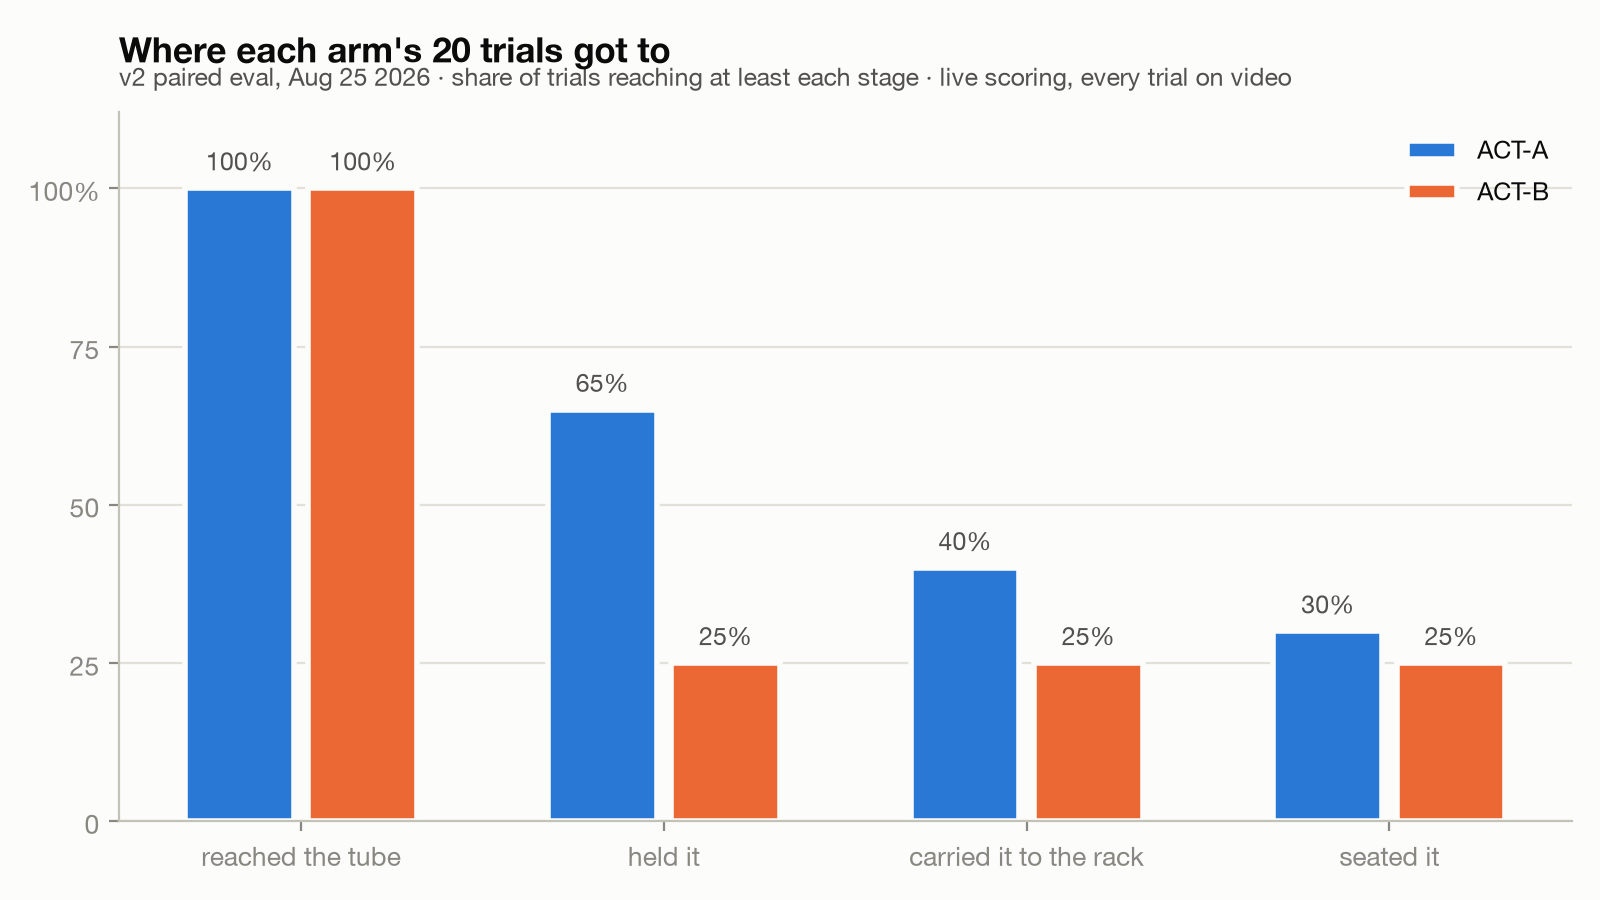
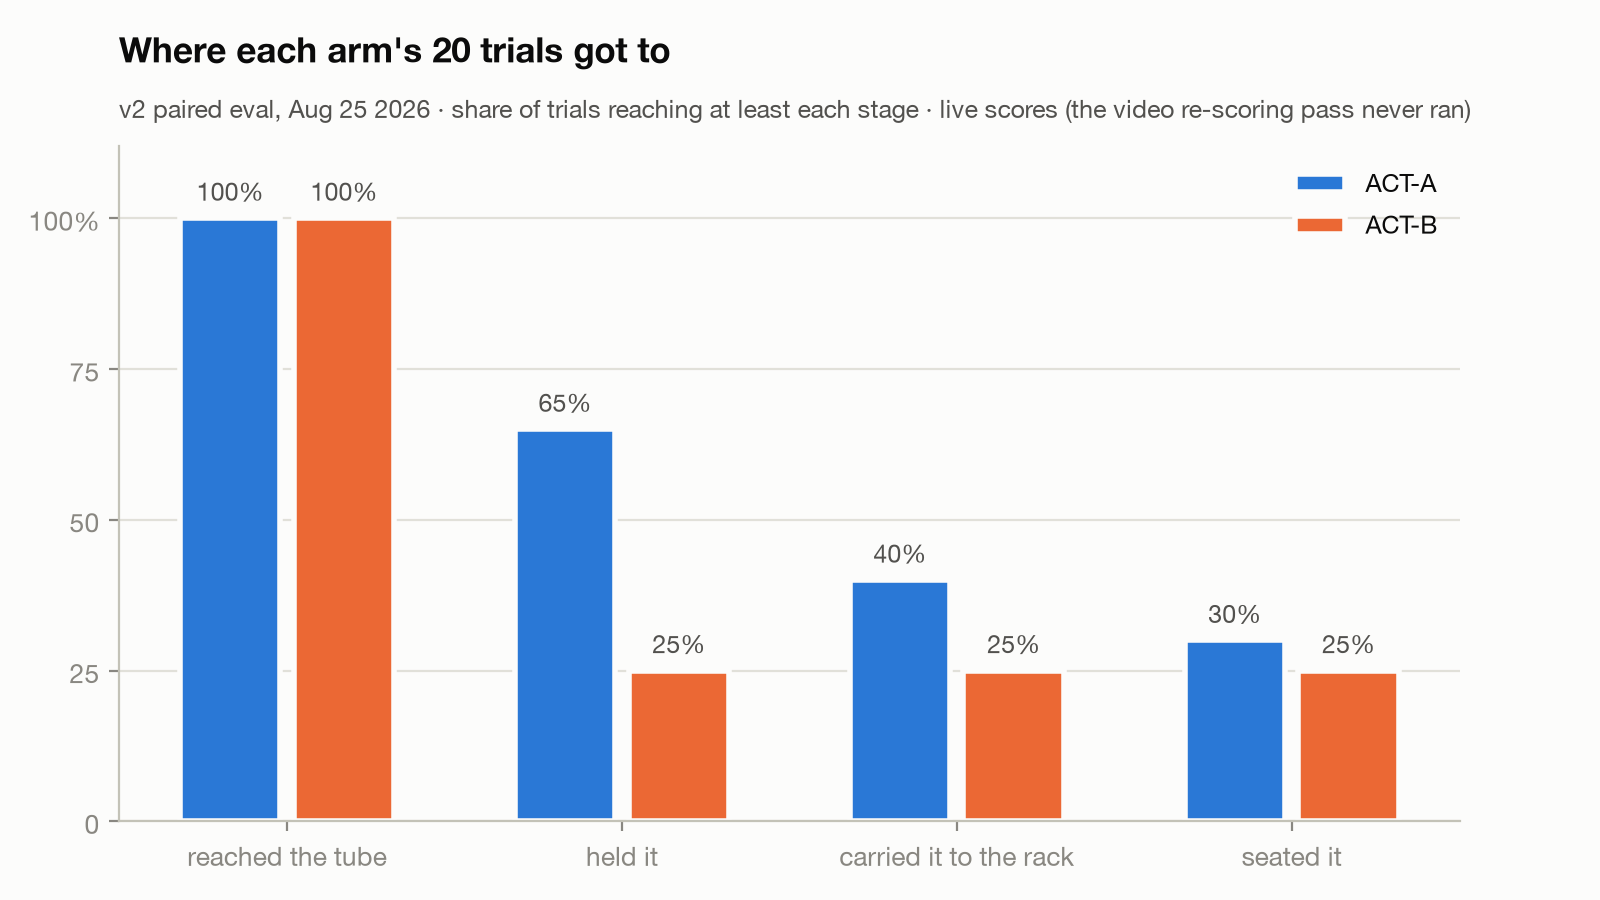
Name the arm as the SO-101, clearer fig1, demo re-cut with a one-line title

diff --git a/tests/test_fig1_layout.py b/tests/test_fig1_layout.py
@@ -1,0 +1,91 @@
+"""fig1 (the public README's headline figure) must be readable and must not
+claim a video check that never happened.
+
+Oct 7 2026: Faith read the public repo and found the fig1 title and subtitle
+too close to read (title baseline 18 pt above the plot, subtitle box ending
+about 3 pt into the title's box). The subtitle also said "live scoring, every
+trial on video", which a reader takes as "video-scored", but the video
+re-scoring pass never ran.
+
+The suite's env (lerobot) has no matplotlib, so the first two tests read the
+layout constants straight from the source with `ast` and run everywhere. The
+third renders the figure and measures it, and runs wherever matplotlib is
+installed (the figure env).
+"""
+
+import ast
+import sys
+from pathlib import Path
+
+import pytest
+
+ROOT = Path(__file__).resolve().parents[1]
+MAKE_FIGURES = ROOT / "tools" / "make_figures.py"
+
+FIG1_SUBTITLE = ("v2 paired eval, Aug 25 2026 · share of trials reaching at least each stage"
+                 " · live scores (the video re-scoring pass never ran)")
+
+
+def _constants():
+    """Module-level literal assignments in make_figures.py, without importing it."""
+    out = {}
+    for node in ast.parse(MAKE_FIGURES.read_text()).body:
+        if isinstance(node, ast.Assign) and len(node.targets) == 1 and isinstance(node.targets[0], ast.Name):
+            try:
+                out[node.targets[0].id] = ast.literal_eval(node.value)
+            except ValueError:
+                pass
+    return out
+
+
+def test_fig1_subtitle_says_live_scores_and_that_the_video_pass_never_ran():
+    c = _constants()
+    assert c.get("FIG1_SUBTITLE") == FIG1_SUBTITLE
+    assert "every trial on video" not in MAKE_FIGURES.read_text()
+
+
+def test_fig1_title_baseline_clears_the_subtitle_baseline_by_one_and_a_half_title_heights():
+    c = _constants()
+    gap = c["FIG1_TITLE_PAD_PT"] - c["FIG1_SUBTITLE_PAD_PT"]
+    # Before Oct 7 the baseline gap was about 8 pt for a 12.5 pt title.
+    assert gap >= 1.5 * c["TITLE_FONT_PT"]
+    # The subtitle's descenders must also clear the top of the plot.
+    assert c["FIG1_SUBTITLE_PAD_PT"] >= 0.5 * c["SUBTITLE_FONT_PT"]
+
+
+def _text_named(ax, prefix):
+    hits = [t for t in ax.get_children() if hasattr(t, "get_text") and t.get_text().startswith(prefix)]
+    assert len(hits) == 1, prefix
+    return hits[0]
+
+
+def test_fig1_rendered_title_and_subtitle_are_separated_and_overlap_nothing():
+    pytest.importorskip("matplotlib")
+    pytest.importorskip("pandas")
+    sys.path.insert(0, str(ROOT / "tools"))
+    import make_figures as mf
+
+    fig, ax, _ = mf.draw_fig1(mf.fd.v2_trials())
+    fig.canvas.draw()
+    r = fig.canvas.get_renderer()
+    pt = 72 / fig.dpi
+    title = _text_named(ax, "Where each arm")
+    sub = _text_named(ax, "v2 paired eval")
+    assert sub.get_text() == FIG1_SUBTITLE
+
+    def baseline(t):
+        return t.get_transform().transform(t.get_position())[1]
+
+    gap_pt = (baseline(title) - baseline(sub)) * pt
+    assert gap_pt >= 1.5 * title.get_fontsize()
+
+    tb, sb = title.get_window_extent(r), sub.get_window_extent(r)
+    assert (tb.y0 - sb.y1) * pt >= 4            # visible white space between the two lines
+    assert sb.y0 >= ax.bbox.y1                   # subtitle sits wholly above the plot
+    assert fig.bbox.x0 <= sb.x0 and sb.x1 <= fig.bbox.x1 and tb.y1 <= fig.bbox.y1
+    others = [t.get_window_extent(r) for t in ax.texts if t is not sub]
+    others.append(ax.get_legend().get_window_extent(r))
+    for bb in others:
+        assert not bb.overlaps(tb) and not bb.overlaps(sb)
+    import matplotlib.pyplot as plt
+    plt.close(fig)

diff --git a/tools/make_figures.py b/tools/make_figures.py
@@ -15,6 +15,7 @@ from pathlib import Path
 import matplotlib
 matplotlib.use("Agg")
 import matplotlib.pyplot as plt  # noqa: E402
+from matplotlib.transforms import offset_copy  # noqa: E402
 import numpy as np  # noqa: E402
 from matplotlib.lines import Line2D  # noqa: E402
 
@@ -28,6 +29,19 @@ SURFACE, INK, INK2, MUTED, GRID, AXIS = "#fcfcfb", "#0b0b0b", "#52514e", "#89878
 A, B, V3C, V2C = "#2a78d6", "#eb6834", "#1baf7a", "#898781"
 COLOR = {"ACT-A": A, "ACT-B": B}
 
+TITLE_FONT_PT = 12.5
+SUBTITLE_FONT_PT = 9
+
+# fig1 is the public README's headline figure (tests/test_fig1_layout.py).
+FIG1_TITLE = "Where each arm's 20 trials got to"
+FIG1_SUBTITLE = ("v2 paired eval, Aug 25 2026 · share of trials reaching at least each stage"
+                 " · live scores (the video re-scoring pass never ran)")
+# Header baselines, in points above the top of the plot. Oct 7: at the shared
+# frame() spacing the title sat about 8 pt above the subtitle and the two read
+# as one cramped block. 20 pt between baselines is 1.6 title heights.
+FIG1_SUBTITLE_PAD_PT = 10
+FIG1_TITLE_PAD_PT = 30
+
 plt.rcParams.update({
     "font.family": "sans-serif",
     "font.sans-serif": ["Helvetica Neue", "Helvetica", "Arial", "DejaVu Sans"],
@@ -37,17 +51,28 @@ plt.rcParams.update({
 })
 
 
-def frame(ax, title, subtitle, ygrid=True):
+def frame(ax, title, subtitle, ygrid=True, title_pad_pt=18, subtitle_pad_pt=None):
+    """Clean the axes and set the left title and the gray subtitle under it.
+
+    With subtitle_pad_pt the subtitle baseline sits that many points above the
+    plot, independent of the plot's height. Without it, the original placement
+    that fig2 and fig3 were rendered with.
+    """
     for side in ("top", "right"):
         ax.spines[side].set_visible(False)
     if ygrid:
         ax.grid(axis="y", color=GRID, linewidth=0.8)
         ax.set_axisbelow(True)
-    ax.set_title(title, loc="left", fontsize=12.5, color=INK, fontweight="semibold", pad=18)
-    ax.text(0, 1.03, subtitle, transform=ax.transAxes, fontsize=9, color=INK2, va="bottom")
+    ax.set_title(title, loc="left", fontsize=TITLE_FONT_PT, color=INK, fontweight="semibold", pad=title_pad_pt)
+    if subtitle_pad_pt is None:
+        ax.text(0, 1.03, subtitle, transform=ax.transAxes, fontsize=SUBTITLE_FONT_PT, color=INK2, va="bottom")
+    else:
+        ax.text(0, 1, subtitle, fontsize=SUBTITLE_FONT_PT, color=INK2, va="baseline",
+                transform=offset_copy(ax.transAxes, fig=ax.figure, y=subtitle_pad_pt, units="points"))
 
 
-def fig1_stage_split(rows):
+def draw_fig1(rows):
+    """Build fig1 without saving it, so the layout test can measure it."""
     cum = fd.stage_cumulative(rows)
     labels = ["reached the tube", "held it", "carried it to the rack", "seated it"]
     x = np.arange(len(fd.STAGES))
@@ -63,10 +88,14 @@ def fig1_stage_split(rows):
     ax.set_xticks(x, labels)
     ax.set_ylim(0, 112)
     ax.set_yticks([0, 25, 50, 75, 100], ["0", "25", "50", "75", "100%"])
-    frame(ax, "Where each arm's 20 trials got to",
-          "v2 paired eval, Aug 25 2026 · share of trials reaching at least each stage · live scoring, every trial on video")
+    frame(ax, FIG1_TITLE, FIG1_SUBTITLE, title_pad_pt=FIG1_TITLE_PAD_PT, subtitle_pad_pt=FIG1_SUBTITLE_PAD_PT)
     ax.legend(frameon=False, loc="upper right", fontsize=9)
     fig.tight_layout()
+    return fig, ax, cum
+
+
+def fig1_stage_split(rows):
+    fig, ax, cum = draw_fig1(rows)
     fig.savefig(OUT / "fig1_stage_split.png")
     plt.close(fig)
     return cum

diff --git a/tests/test_demo_cut.py b/tests/test_demo_cut.py
@@ -283,7 +283,7 @@ def test_clip_list_is_the_structure_faith_approved_on_sep_22():
 def test_title_and_end_cards_exist_and_the_end_card_states_the_rate_and_the_link():
     assert dc.TITLE_CARD.seconds > 0 and dc.END_CARD.seconds > 0
     title = " ".join(dc.TITLE_CARD.lines).lower()
-    assert "tube" in title and "rack" in title and "demonstrations" in title
+    assert "tube" in title and "rack" in title   # Oct 7: Faith dropped "from my demonstrations"
     end = " ".join(dc.END_CARD.lines)
     assert dc.REPO_URL in end
     assert dc.REPO_URL == "github.com/FaithQin/so101-tube-insertion"
@@ -474,6 +474,16 @@ def test_title_card_shows_for_two_seconds():
     assert dc.TITLE_CARD.seconds == 2.0
     assert dc.card_frame_count(dc.TITLE_CARD.seconds) == 40
 
+
+
+# Faith, Oct 7 2026: "for the demo video don't say 'a 3D printed arm' ... just say LeRobot SO-101
+# arms". The arm is named by its official name, and nothing on a card sells it by price or build.
+def test_title_card_names_the_arm_lerobot_so101_and_nothing_else():
+    assert dc.TITLE_CARD.lines[0] == "A LeRobot SO-101 arm learns to put a tube in a rack"
+    assert len(dc.TITLE_CARD.lines) == 1, "Oct 7: the title card is one line, no 'from my demonstrations'"
+    for line in dc.TITLE_CARD.lines + dc.END_CARD.lines:
+        for banned in ("3D", "printed", "$"):
+            assert banned.lower() not in line.lower(), (banned, line)
 
 def test_end_card_shows_for_three_seconds():
     assert dc.END_CARD.seconds == 3.0

diff --git a/tools/demo_cut.py b/tools/demo_cut.py
@@ -97,9 +97,8 @@ class Card:
 
 
 # Faith, Oct 7 2026: "change the title to just show for 2 seconds" (was 4 s) and "last slide
-# can just show for 3 seconds" (was 6 s).
-TITLE_CARD = Card(("A 3D-printed arm learns to put a tube in a rack,",
-                   "from my demonstrations"), 2.0)
+# can just show for 3 seconds" (was 6 s). Also Oct 7: name the arm "LeRobot SO-101", not "3D-printed".
+TITLE_CARD = Card(("A LeRobot SO-101 arm learns to put a tube in a rack",), 2.0)   # Oct 7: one line, no "from my demonstrations"
 # "about 1 in 4" is the v2 sheet's seated fraction, 11 S rows of 40 valid trials; the suite
 # recomputes it from the sheet (seated_fraction / rate_phrase) so this literal cannot drift.
 END_CARD = Card(("Succeeds about 1 in 4 times.",

diff --git a/README.md b/README.md
@@ -1,6 +1,6 @@
 # so101-tube-insertion
 
-**Does giving an imitation policy the servos' own load and current readings help it put a test tube into a rack, on a $300 3D-printed arm?**
+**Does giving an imitation policy the servos' own load and current readings help it put a test tube into a rack, on a LeRobot SO-101 arm?**
 
 This is the record of one summer's attempt to answer that on real hardware: a paired A/B evaluation, the pre-registered protocol that followed it, the failure taxonomy, the things I believed and then measured to be false, and the tooling that made any of the numbers believable.
 
@@ -10,7 +10,7 @@ This is the record of one summer's attempt to answer that on real hardware: a pa
 
 ![Where each arm's 20 trials got to, from live scores](analysis/figures/fig1_stage_split.png)
 
-**Demo video (41 s).** [Watch it on the releases page](https://github.com/FaithQin/so101-tube-insertion/releases). One run that works, one that recovers at the rack, and the three ways it fails. The frame-by-frame audit of every clip is in [`analysis/demo_cut/EDL.md`](analysis/demo_cut/EDL.md).
+**Demo video (41 s).** [Watch it on the releases page](https://github.com/FaithQin/so101-tube-insertion/releases). First-try success, recovery, and three ways it fails the task. The frame-by-frame audit of every clip is in [`analysis/demo_cut/EDL.md`](analysis/demo_cut/EDL.md).
 
 [![The run that works, frame by frame](analysis/demo_cut/C01_trial_B_v2_20260825_203323.png)](https://github.com/FaithQin/so101-tube-insertion/releases)
 
@@ -41,7 +41,7 @@ Where the trials did teach me something is in where things went wrong. 27 of the
 
 ## 2. What it took to believe any number
 
-**Replay as arbiter.** A deterministic replay of a known-good demonstration separates the plant from the policy. Without it, "my imitation policy is bad" can't be falsified on a $300 arm. From Aug 23 a replay had to seat before every block, and from Sep 1 no trial counted without a passing replay on the same power cycle. The replay caught an elbow fault on Aug 29, certified the plant on Sep 3 after two days with no seat, and on Sep 6 it stopped seating on its own, which is how the worn elbow gearbox in section 4 was found.
+**Replay as arbiter.** A deterministic replay of a known-good demonstration separates the plant from the policy. Without it, "my imitation policy is bad" can't be falsified on a hobby-servo arm. From Aug 23 a replay had to seat before every block, and from Sep 1 no trial counted without a passing replay on the same power cycle. The replay caught an elbow fault on Aug 29, certified the plant on Sep 3 after two days with no seat, and on Sep 6 it stopped seating on its own, which is how the worn elbow gearbox in section 4 was found.
 
 **Gates that abort in code.** On Aug 29 an hour of bench time went to checks that only printed a warning. Since then, if a condition should stop a launch it stops it in code, and if it shouldn't, it isn't in the launcher. Thresholds live in [`tools/preflight.py`](tools/preflight.py), [`tools/home_gate.py`](tools/home_gate.py) and [`tools/cert_gate.py`](tools/cert_gate.py).
 
@@ -176,7 +176,7 @@ These are the five bets I'd carry into a next study. For each one I say where it
 - Across-day variance is large. The same v2-A policy went 8 of 10 on Aug 29 (five of them with the chunk lock on) and 6 of 20 on Aug 25.
 - The arm isn't useful today.
 
-**Positioning.** FACTR 2 (arXiv:2606.12406) is the closest neighbour: raw motor current, ACT, insertion. I designed v4 with FACTR 2 in view, as a low-cost replication attempt on a $300 arm with servo telemetry instead of joint-torque hardware. v4 has no A/B result. Phaser (arXiv:2605.29407) puts force sensors on a deformable task, mostly in a failure detector, and no ablation there isolates the force channel. robomimic section 4.3 is the confound both of those and this one carry.
+**Positioning.** FACTR 2 (arXiv:2606.12406) is the closest neighbour: raw motor current, ACT, insertion. I designed v4 with FACTR 2 in view, as a low-cost replication attempt on an SO-101 arm with servo telemetry instead of joint-torque hardware. v4 has no A/B result. Phaser (arXiv:2605.29407) puts force sensors on a deformable task, mostly in a failure detector, and no ablation there isolates the force channel. robomimic section 4.3 is the confound both of those and this one carry.
 
 ---
 
@@ -231,4 +231,4 @@ A 3D-printed SO-ARM101 pair, leader and follower, with Feetech HX-30HM servos on
 
 ### License
 
-Apache-2.0. Snapshot of the private working repository at commit `5ff8ab9`. See [`PROVENANCE.md`](PROVENANCE.md).
+Apache-2.0. Snapshot of the private working repository at commit `ab11025`. See [`PROVENANCE.md`](PROVENANCE.md).

diff --git a/PROVENANCE.md b/PROVENANCE.md
@@ -1,8 +1,8 @@
 # Provenance
 
-This repository is a snapshot of a private working repository, copied on 2026-10-07 from its commit `5ff8ab9` by an allowlist. It has fresh history on purpose: the private history holds working notes, home camera frames and the blinding key of a study that is still sealed. Nothing here was written for this copy except `README.md`, `LICENSE`, `.gitignore` and this file.
+This repository is a snapshot of a private working repository, copied on 2026-10-07 from its commit `ab11025` by an allowlist. It has fresh history on purpose: the private history holds working notes, home camera frames and the blinding key of a study that is still sealed. Nothing here was written for this copy except `README.md`, `LICENSE`, `.gitignore` and this file.
 
-**Copied:** 227 tracked files. **Left out:** 513 tracked files, in these classes: the blinding key and everything derived from it (schedules, ledgers, sealed consoles, raw rollouts, six tests, the v4 bench sheet, the v4 protocol text), working notes, personal and machine-specific files, bulk diagnostic frames, home camera frames, and every video (the demo video ships as a release asset).
+**Copied:** 228 tracked files. **Left out:** 513 tracked files, in these classes: the blinding key and everything derived from it (schedules, ledgers, sealed consoles, raw rollouts, six tests, the v4 bench sheet, the v4 protocol text), working notes, personal and machine-specific files, bulk diagnostic frames, home camera frames, and every video (the demo video ships as a release asset).
 
 ## Edits made in this copy
 

diff --git a/analysis/demo_cut/EDL.md b/analysis/demo_cut/EDL.md
@@ -30,7 +30,7 @@ Policy for the non-sheet source: B2V-A-02 is ACT-A on v3 (`analysis/figures/numb
 
 | card | seconds | text |
 |---|---|---|
-| title | 2 | A 3D-printed arm learns to put a tube in a rack, / from my demonstrations |
+| title | 2 | A LeRobot SO-101 arm learns to put a tube in a rack |
 | end | 3 | Succeeds about 1 in 4 times. / Full results and failure breakdown: / github.com/FaithQin/so101-tube-insertion |
 
 ## Events per source (seconds, video time)
